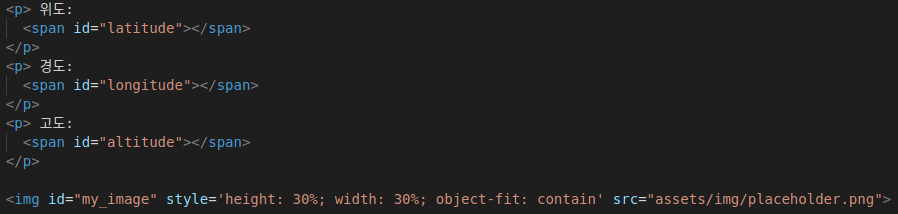
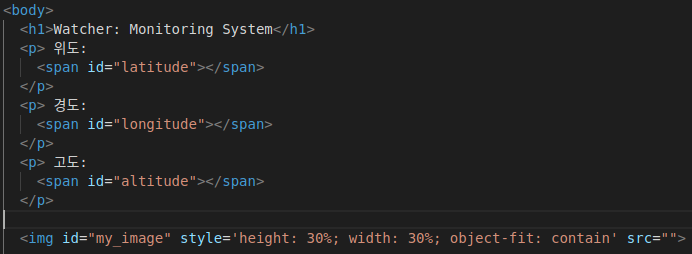
Update subscriber.html

Changed region(s): [[0.0, 0.0, 0.4552, 0.4486], [0.0, 0.8972, 1.0, 0.9813], [0.0, 0.4486, 0.3945, 0.8131]]

diff --git a/templates/subscriber.html b/templates/subscriber.html
@@ -18,7 +18,7 @@
     <span id="altitude"></span>
   </p>
 
-  <img id="my_image" style='height: 30%; width: 30%; object-fit: contain' src="assets/img/placeholder.png">
+  <img id="my_image" style='height: 30%; width: 30%; object-fit: contain' src="">
 
   <script type="text/javascript" type="text/javascript">
     // Connecting to ROS
